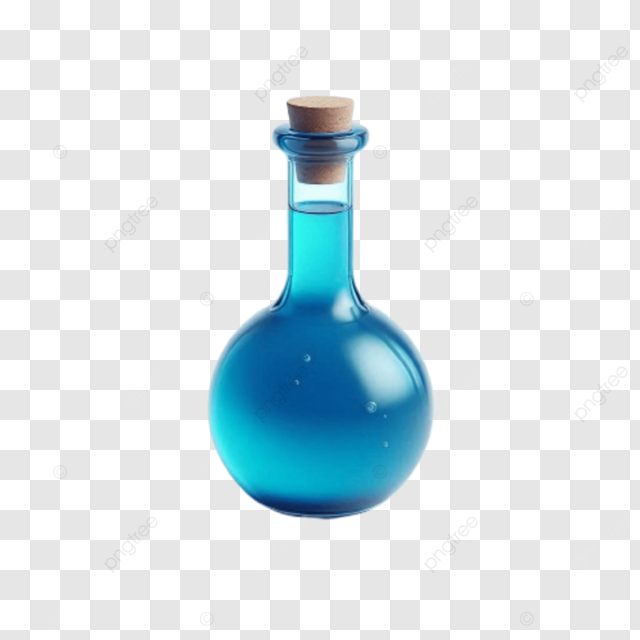
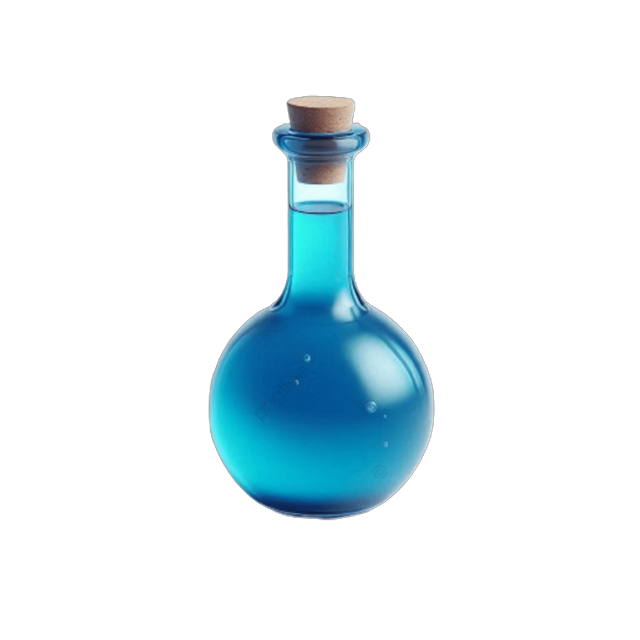
image added

diff --git a/Potion.java b/Potion.java
@@ -5,7 +5,7 @@ public class Potion extends Actor
     public Potion()
     {
         setImage(new GreenfootImage("images/potion.png"));
-        getImage().scale(30, 30);
+        getImage().scale(60, 60);
     }
 
     public void act()
